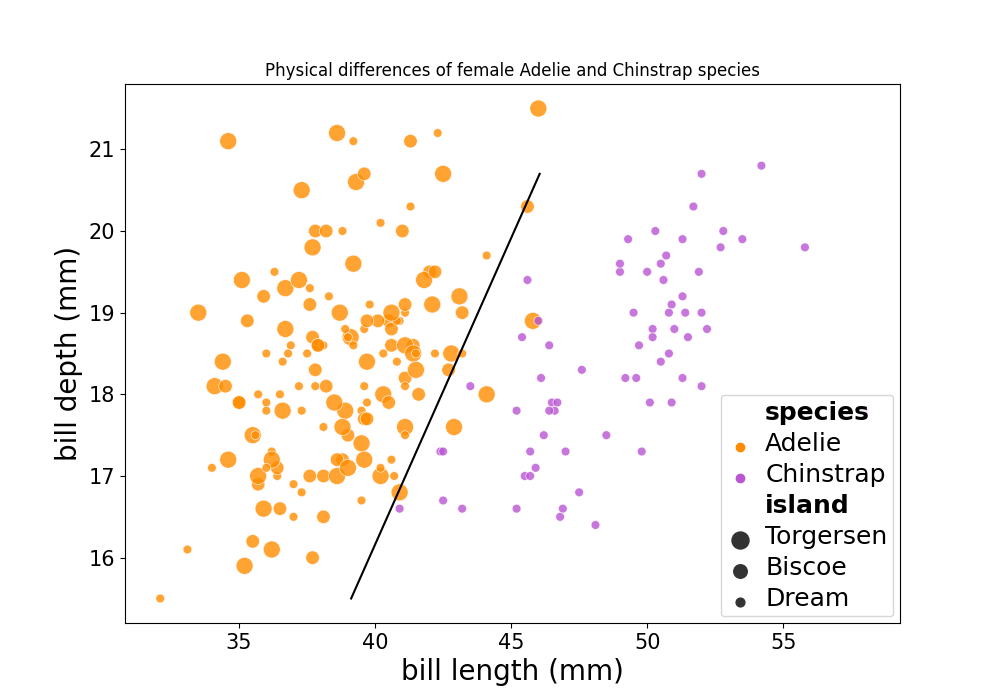
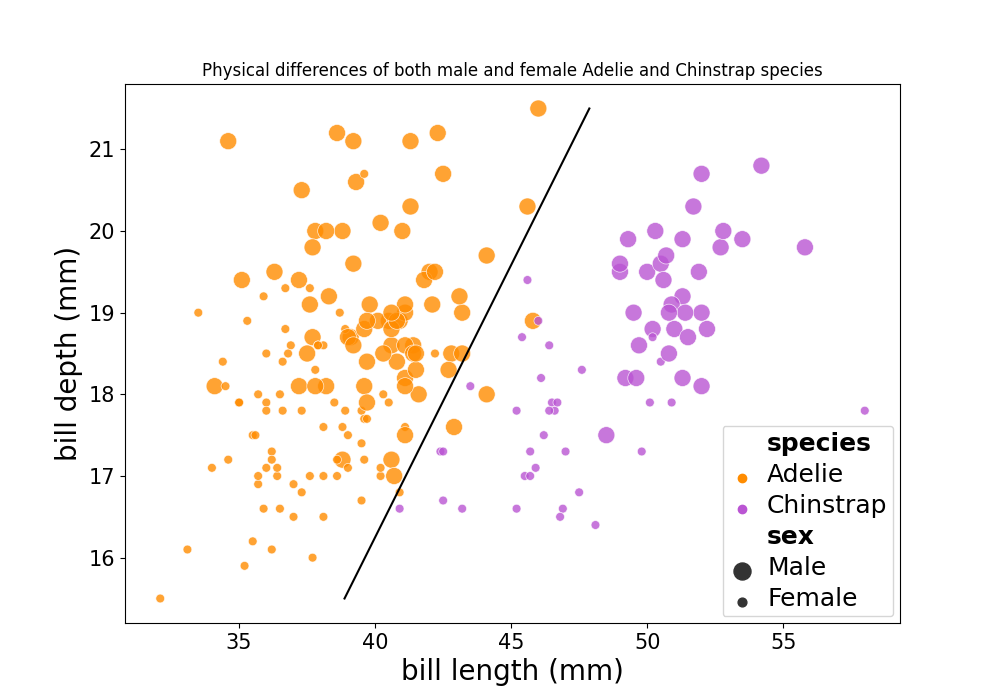
report and SVM testing

diff --git a/kmeans/kmeans.py b/kmeans/kmeans.py
@@ -19,12 +19,12 @@ df = pd.read_csv('penguin_cleaned.csv')
 # create all Male version of dataframe
 male = df[df['sex'] != 'Female']
 male.to_csv('penguin_cleaned_male.csv', index = False)
-# df = male
+#df = male
 
 # create all Gemale version of dataframe
 female = df[df['sex'] != 'Male']
 female.to_csv('penguin_cleaned_female.csv', index = False)
-df = female
+# df = female
 
 # Remove rows where 'sex' is NaN
 #df_with_nan.drop(columns=['Unnamed: 0'], inplace=True)
@@ -37,24 +37,38 @@ print(df.head())
 # %%
 # Get a dataframe of features
 features_unscaled = df[['bill_length_mm', 'bill_depth_mm', 'flipper_length_mm', 'body_mass_g']]
-# features_unscaled = df[['bill_length_mm', 'bill_depth_mm', 'flipper_length_mm']]
-
+features_unscaled = df[['bill_length_mm', 'bill_depth_mm', 'flipper_length_mm']]
 # features_unscaled = df[['bill_length_mm', 'bill_depth_mm']]
 labels = df['species']
 
+
 # Initialise the StandardScaler and scale features
-scaler = StandardScaler()
-features = scaler.fit_transform(features_unscaled)
+# scaler = StandardScaler()
+# features = scaler.fit_transform(features_unscaled)
+
+# # Split the scaled data
+# features_train, features_test, labels_train, labels_test = train_test_split(
+#     features, 
+#     labels, 
+#     test_size=0.2, 
+#     random_state=42
+# )
 
 # Split the scaled data
 features_train, features_test, labels_train, labels_test = train_test_split(
-    features, 
+    features_unscaled, 
     labels, 
     test_size=0.2, 
     random_state=42
 )
 
-# Fit KMeans on the training set
+scaler = StandardScaler()
+X_train = scaler.fit_transform(features_train)
+X_test = scaler.transform(features_test)
+features_train = X_train
+features_test = X_test
+
+# fit kmeans on the training set
 kmm = KMeans(n_clusters=3, random_state=42, n_init='auto')   # added n_init='auto' to avoid warning
 kmm.fit(features_train)
 
@@ -65,16 +79,15 @@ kmm.fit(features_train)
 custom_palette = {
     'Adelie': 'darkorange',
     'Chinstrap': 'mediumorchid',
-  
     'Gentoo': 'mediumseagreen'
 }
 
-# Plotting both training and test set clusters side by side
+# plot both training and test set clusters side by side
 fig, axs = plt.subplots(1, 2, figsize=(14, 6))
 
 # Training set
 for species, color in custom_palette.items():
-    points = features_train[labels_train == species]
+    points = X_train[labels_train == species]
     axs[0].scatter(points[:, 0], points[:, 1], c=color, label=f'{species}')
 axs[0].set_xlabel('Bill Length (scaled)')
 axs[0].set_ylabel('Bill Depth (scaled)')
@@ -83,7 +96,7 @@ axs[0].legend()
 
 # Test set
 for species, color in custom_palette.items():
-    points = features_test[labels_test == species]
+    points = X_test[labels_test == species]
     axs[1].scatter(points[:, 0], points[:, 1], c=color, label=f'{species}')
 axs[1].set_xlabel('Bill Length (scaled)')
 axs[1].set_ylabel('Bill Depth (scaled)')
@@ -142,7 +155,7 @@ inertias = []
 K = 15 # 15 clusters
 for k in range(1, K+1):
     kmm = KMeans(n_clusters=k,  n_init='auto')   # added n_init='auto' to avoid warning
-    kmm.fit(features)
+    kmm.fit(X_train)
     inertias.append(kmm.inertia_)
 
 # Plot elbow plot
@@ -200,8 +213,8 @@ labels_test_encoded = le.transform(labels_test)
 param_grid = {
     'n_clusters': range(2, 10),  # Number of clusters
     'init': ['k-means++', 'random'],  # Initialisation method for centroids
-    'n_init': [5, 10, 20],  # The number of times KMeans is run with different centroid seeds
-    'max_iter': [10, 20, 50]  # Max number of iterations the algorithm will run
+    'n_init': [2, 5, 10, 20],  # The number of times KMeans is run with different centroid seeds
+    'max_iter': [5, 10, 20, 50]  # Max number of iterations the algorithm will run
 }
 
 # List of random states to consider for additional robustness in finding the best init

diff --git a/code/main.py b/code/main.py
@@ -79,13 +79,13 @@ clean_df = clean(df)
 # knn(clean_df)
 
 # random forest analysis
-random_forest(clean_df)
+# random_forest(clean_df)
 
 # k means
 # in separate jupyter notebook
 
 # unusual and interesting mix of visualization and classification? 
-# surprising(clean_df, custom_colors)
+surprising(clean_df, custom_colors)
 
 # logistic regression analysis
 # logistic_regression(clean_df)

diff --git a/code/surprising.py b/code/surprising.py
@@ -129,7 +129,7 @@ def surprising(local_df, custom_colors):
   # define whether the plot is to be produced for Male, Female or Both sexes - comment out all but one
   sex_plot = "male"
   sex_plot = "female"
-  # sex_plot = "both male and female"
+  sex_plot = "both male and female"
 
   # if single sex, keep the one we want
   if (sex_plot == "male"):
